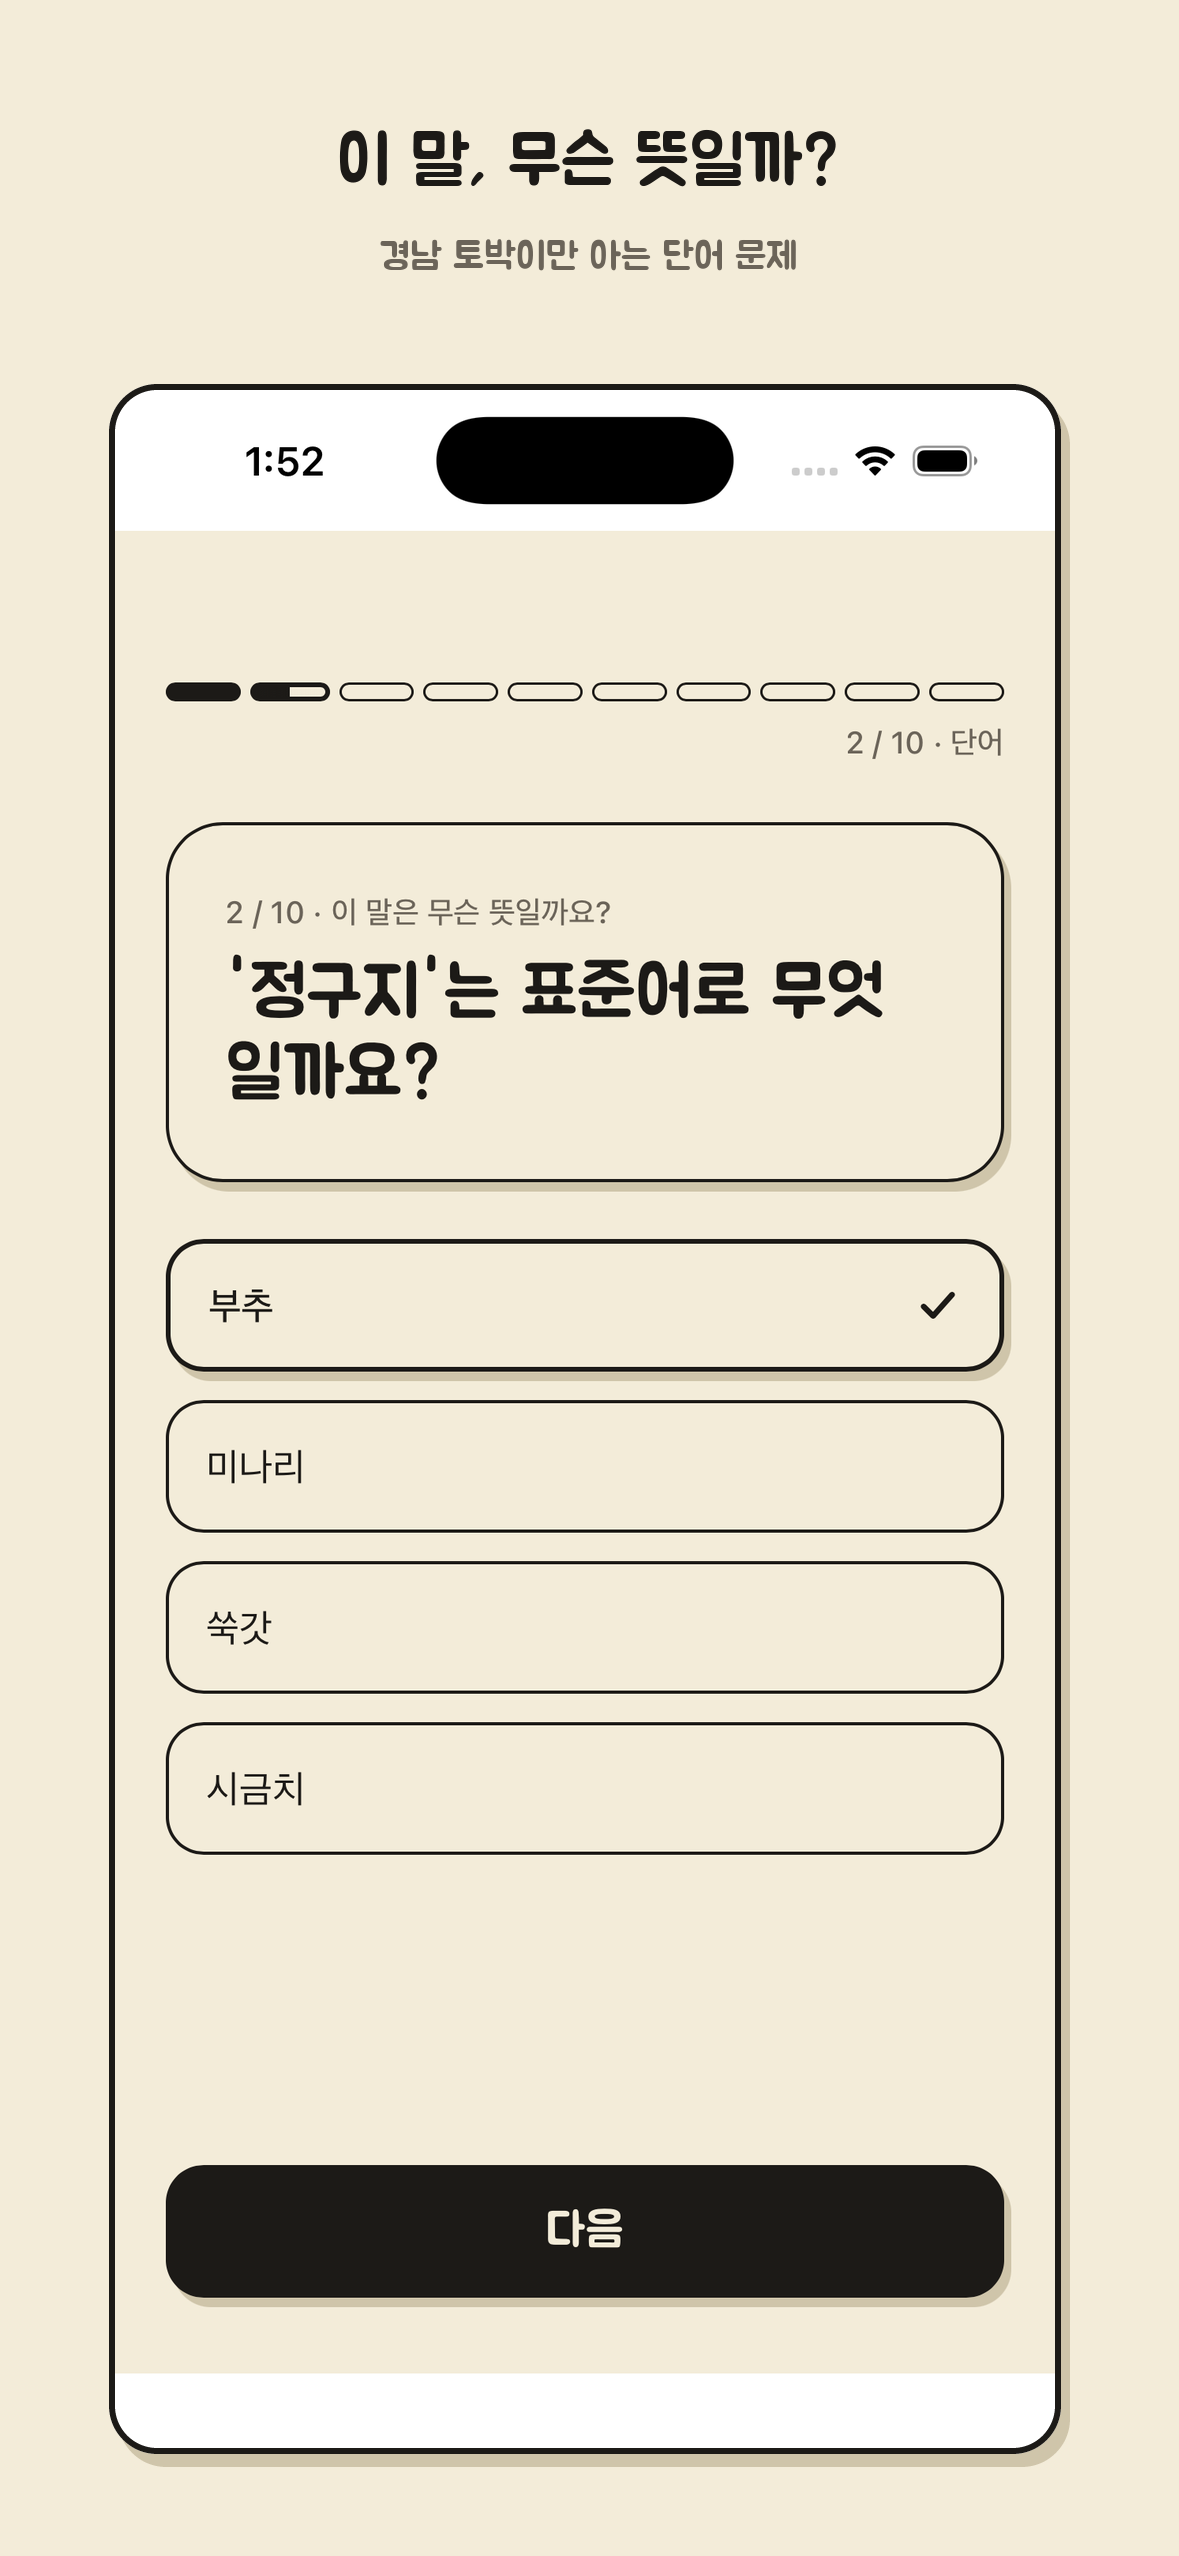
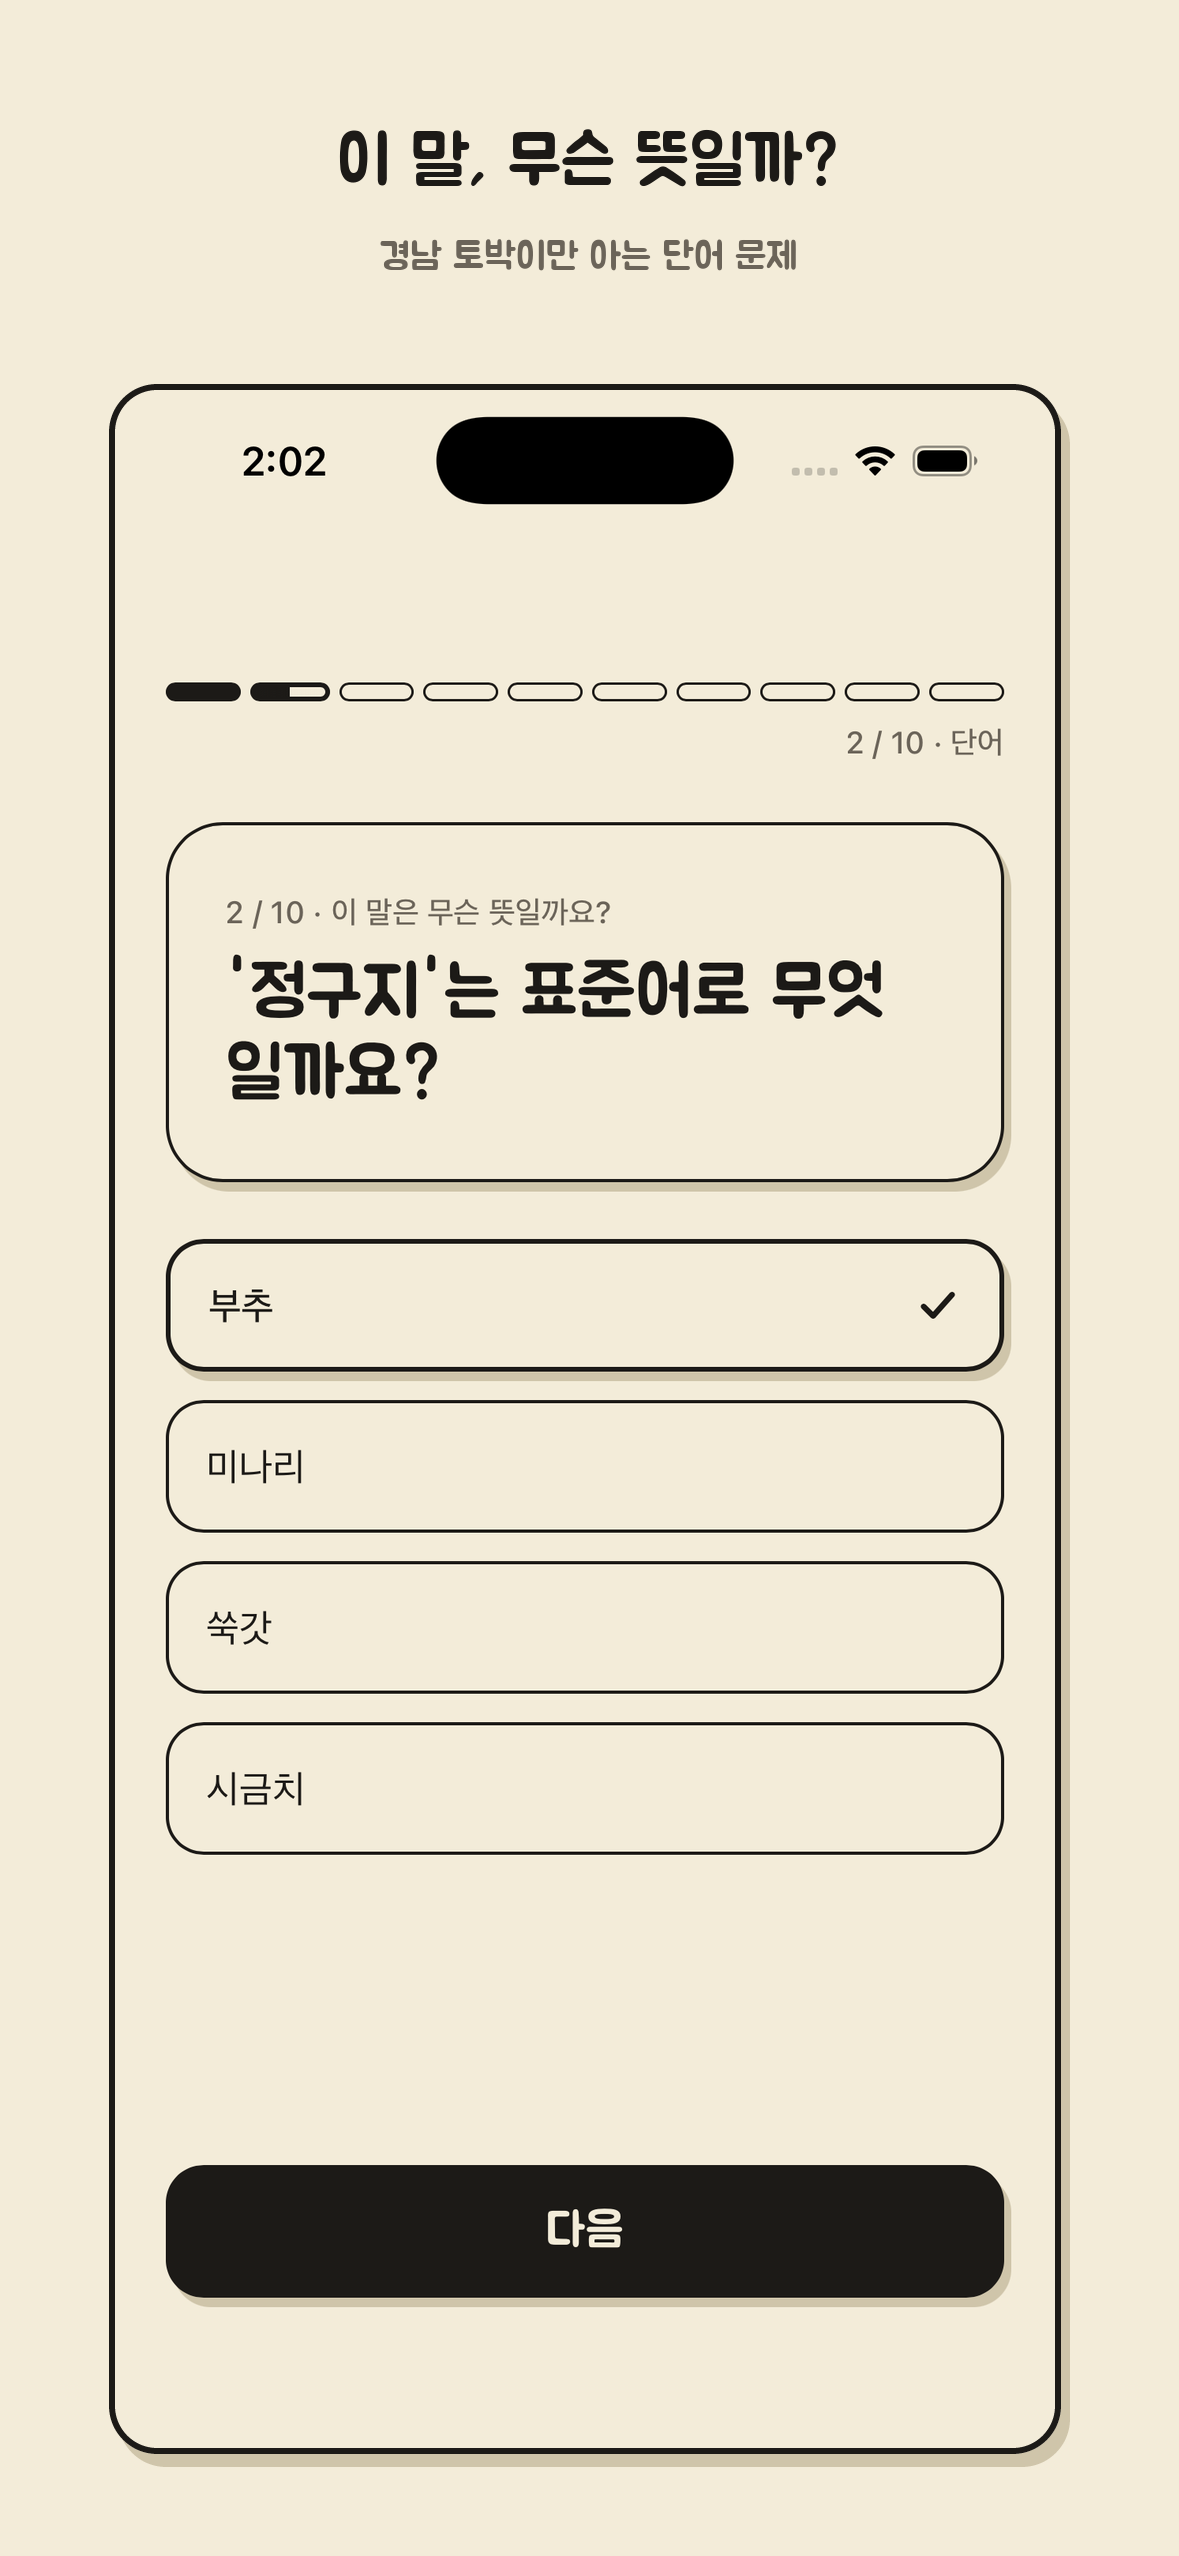
KAN-178 iOS 웹 화면 위아래 흰 띠 수정 - TestFlowView 루트에 크림 배경을 safe area 밖까지, iOS 캡처 3장 재촬영
- TestFlowView: 루트 VStack에 .background(Papercut.cream.ignoresSafeArea()). 내용은 safe area 안, 배경만 화면 끝까지 (Android Scaffold 배경과 같은 자리)
- 증상: 인트로·어휘·결과(웹 화면)에서만 상태 바·홈 인디케이터 영역이 창 기본 흰색으로 남음. 녹음 오버레이·로딩 화면은 각자 ignoresSafeArea 배경이 있어 정상
- raw/ios 01·03·04 재캡처(픽셀 (600,10)·(600,2600) 255→243,236,217), App Store 6.7/6.1 프레임 6장 재생성, Core 400 테스트 통과

Claude-Session: https://claude.ai/code/session_01Nud2Q8pYYmbEKkf6aeyY5Q

Changed region(s): [[0.0916, 0.1545, 0.916, 0.2164], [0.0916, 0.9272, 0.916, 0.9581]]

diff --git a/ios/Accentury/TestFlow/TestFlowView.swift b/ios/Accentury/TestFlow/TestFlowView.swift
@@ -16,6 +16,11 @@ import WebKit
 ///
 /// 업로드 상태 바는 오버레이가 아니라 화면 **아래**를 나눠 갖는다 (안드로이드의 `Column`) —
 /// 녹음 중에도 실패한 업로드의 재시도 통로가 가려지지 않아야 한다.
+///
+/// ## 종이색은 화면 끝까지 간다
+///
+/// 내용(WebView·오버레이·상태 바)은 안전 영역 **안쪽**에 그대로 두고, 배경만
+/// `ignoresSafeArea()`로 상태 바·홈 인디케이터 자리까지 넓힌다 — 자세한 이유는 `body`의 주석.
 struct TestFlowView: View {
 
     @StateObject private var model = TestFlowModel()
@@ -76,6 +81,25 @@ struct TestFlowView: View {
                 )
             }
         }
+        /*
+         * 종이색을 화면 끝까지 민다.
+         *
+         * SwiftUI는 내용을 안전 영역 안쪽에 놓으므로, 이 `VStack`은 상태 바(다이내믹 아일랜드)와
+         * 홈 인디케이터 자리를 비워 둔다. 그 자리를 아무도 칠하지 않으면 창의 기본 배경인 **흰색**이
+         * 그대로 드러나, 웹 화면(인트로·문항·결과)에서만 위아래에 흰 띠가 생긴다. 네이티브 화면들이
+         * 이미 각자 `Papercut.cream.ignoresSafeArea()`를 깔고 있어 녹음 오버레이·로딩 화면에서는
+         * 안 보이던 증상이다.
+         *
+         * 넓히는 것은 **배경뿐이다.** 내용까지 안전 영역 밖으로 내보내면 웹 화면의 첫 줄이
+         * 다이내믹 아일랜드 밑으로 들어가고 하단 버튼이 홈 인디케이터에 물린다. WebView 자체도
+         * 안전 영역 안에 그대로 둔다 — 웹 레이아웃은 인셋을 모르는 채 짜여 있다.
+         *
+         * 안드로이드의 같은 자리는 `MainActivity`의 `Scaffold`다 (KAN-161 4단계): 창은
+         * `enableEdgeToEdge()`로 시스템 바 밑까지 열어 두고, 크림
+         * (`colorScheme.background`)이 창 전체를 칠하며, 내용은 `innerPadding`으로 인셋
+         * 안쪽에 앉는다. 첫 프레임의 시스템 바 아이콘 색은 `themes.xml`이 맡는다.
+         */
+        .background(Papercut.cream.ignoresSafeArea())
         /*
          * 업로드가 어느 세션으로 나가는지는 매니저를 만드는 순간 정해진다 (KAN-34). 세션이
          * 바뀌면 새 매니저를 받아 끝난 응시의 업로드가 새 세션에 섞이지 않는다.
